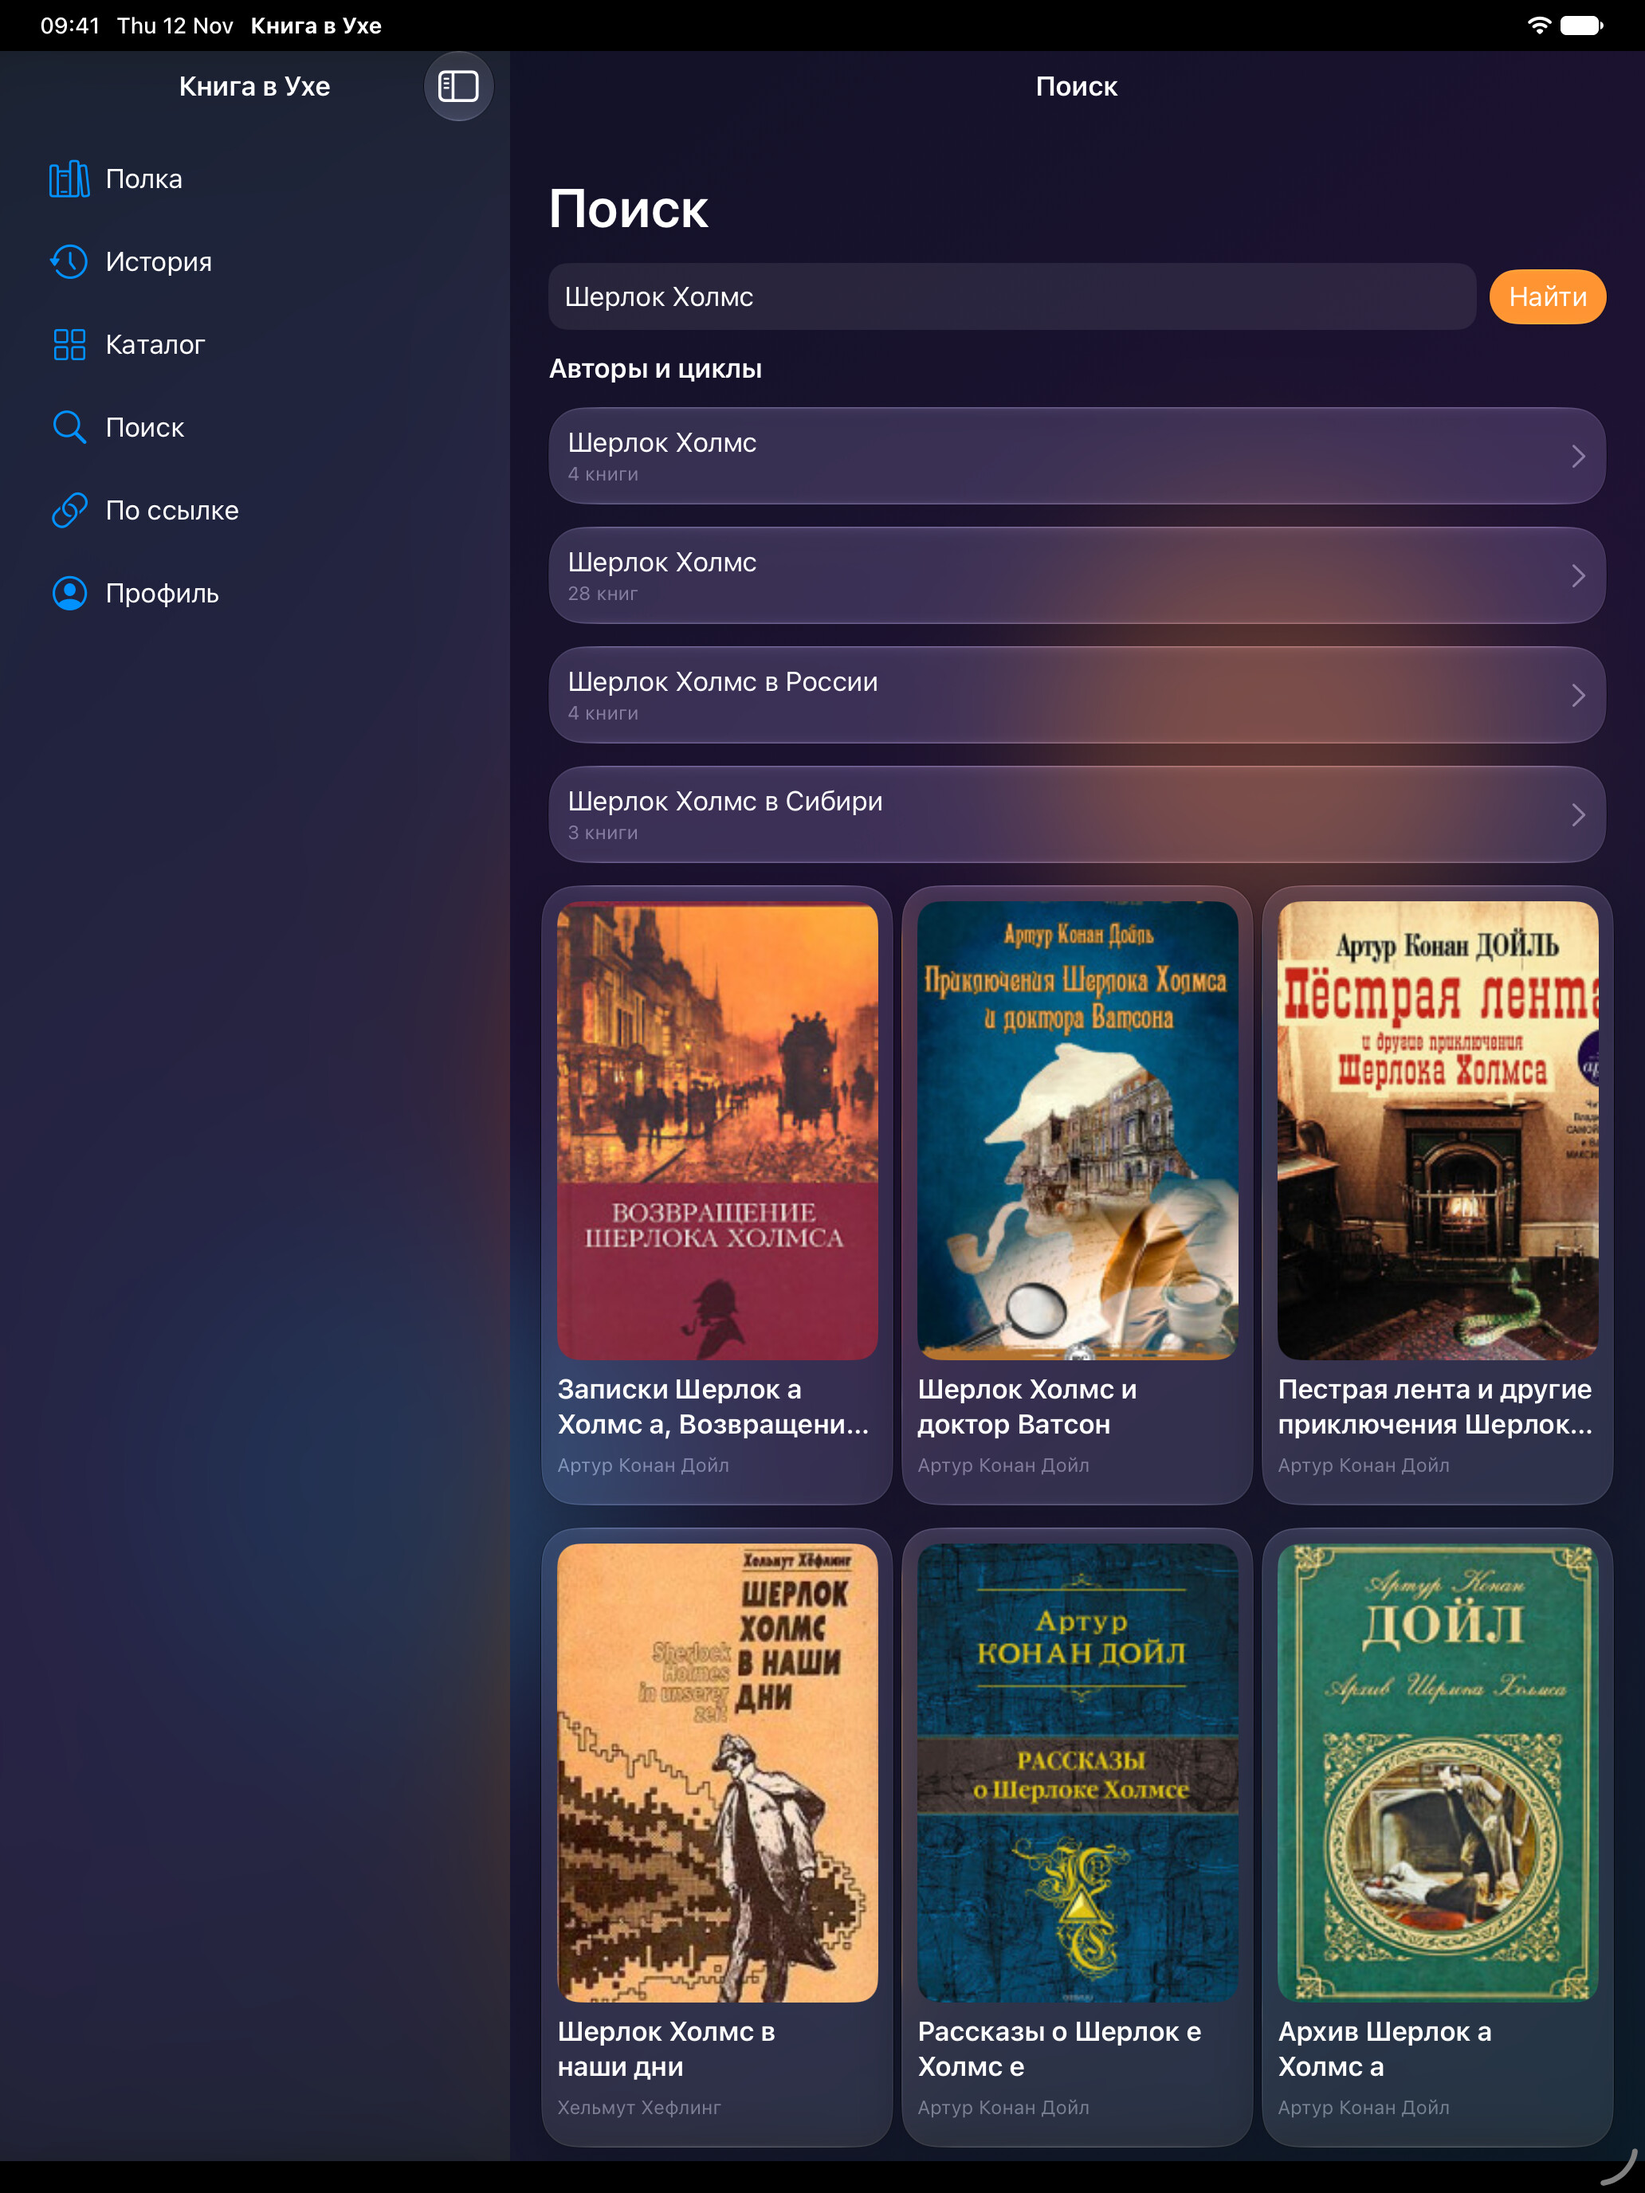
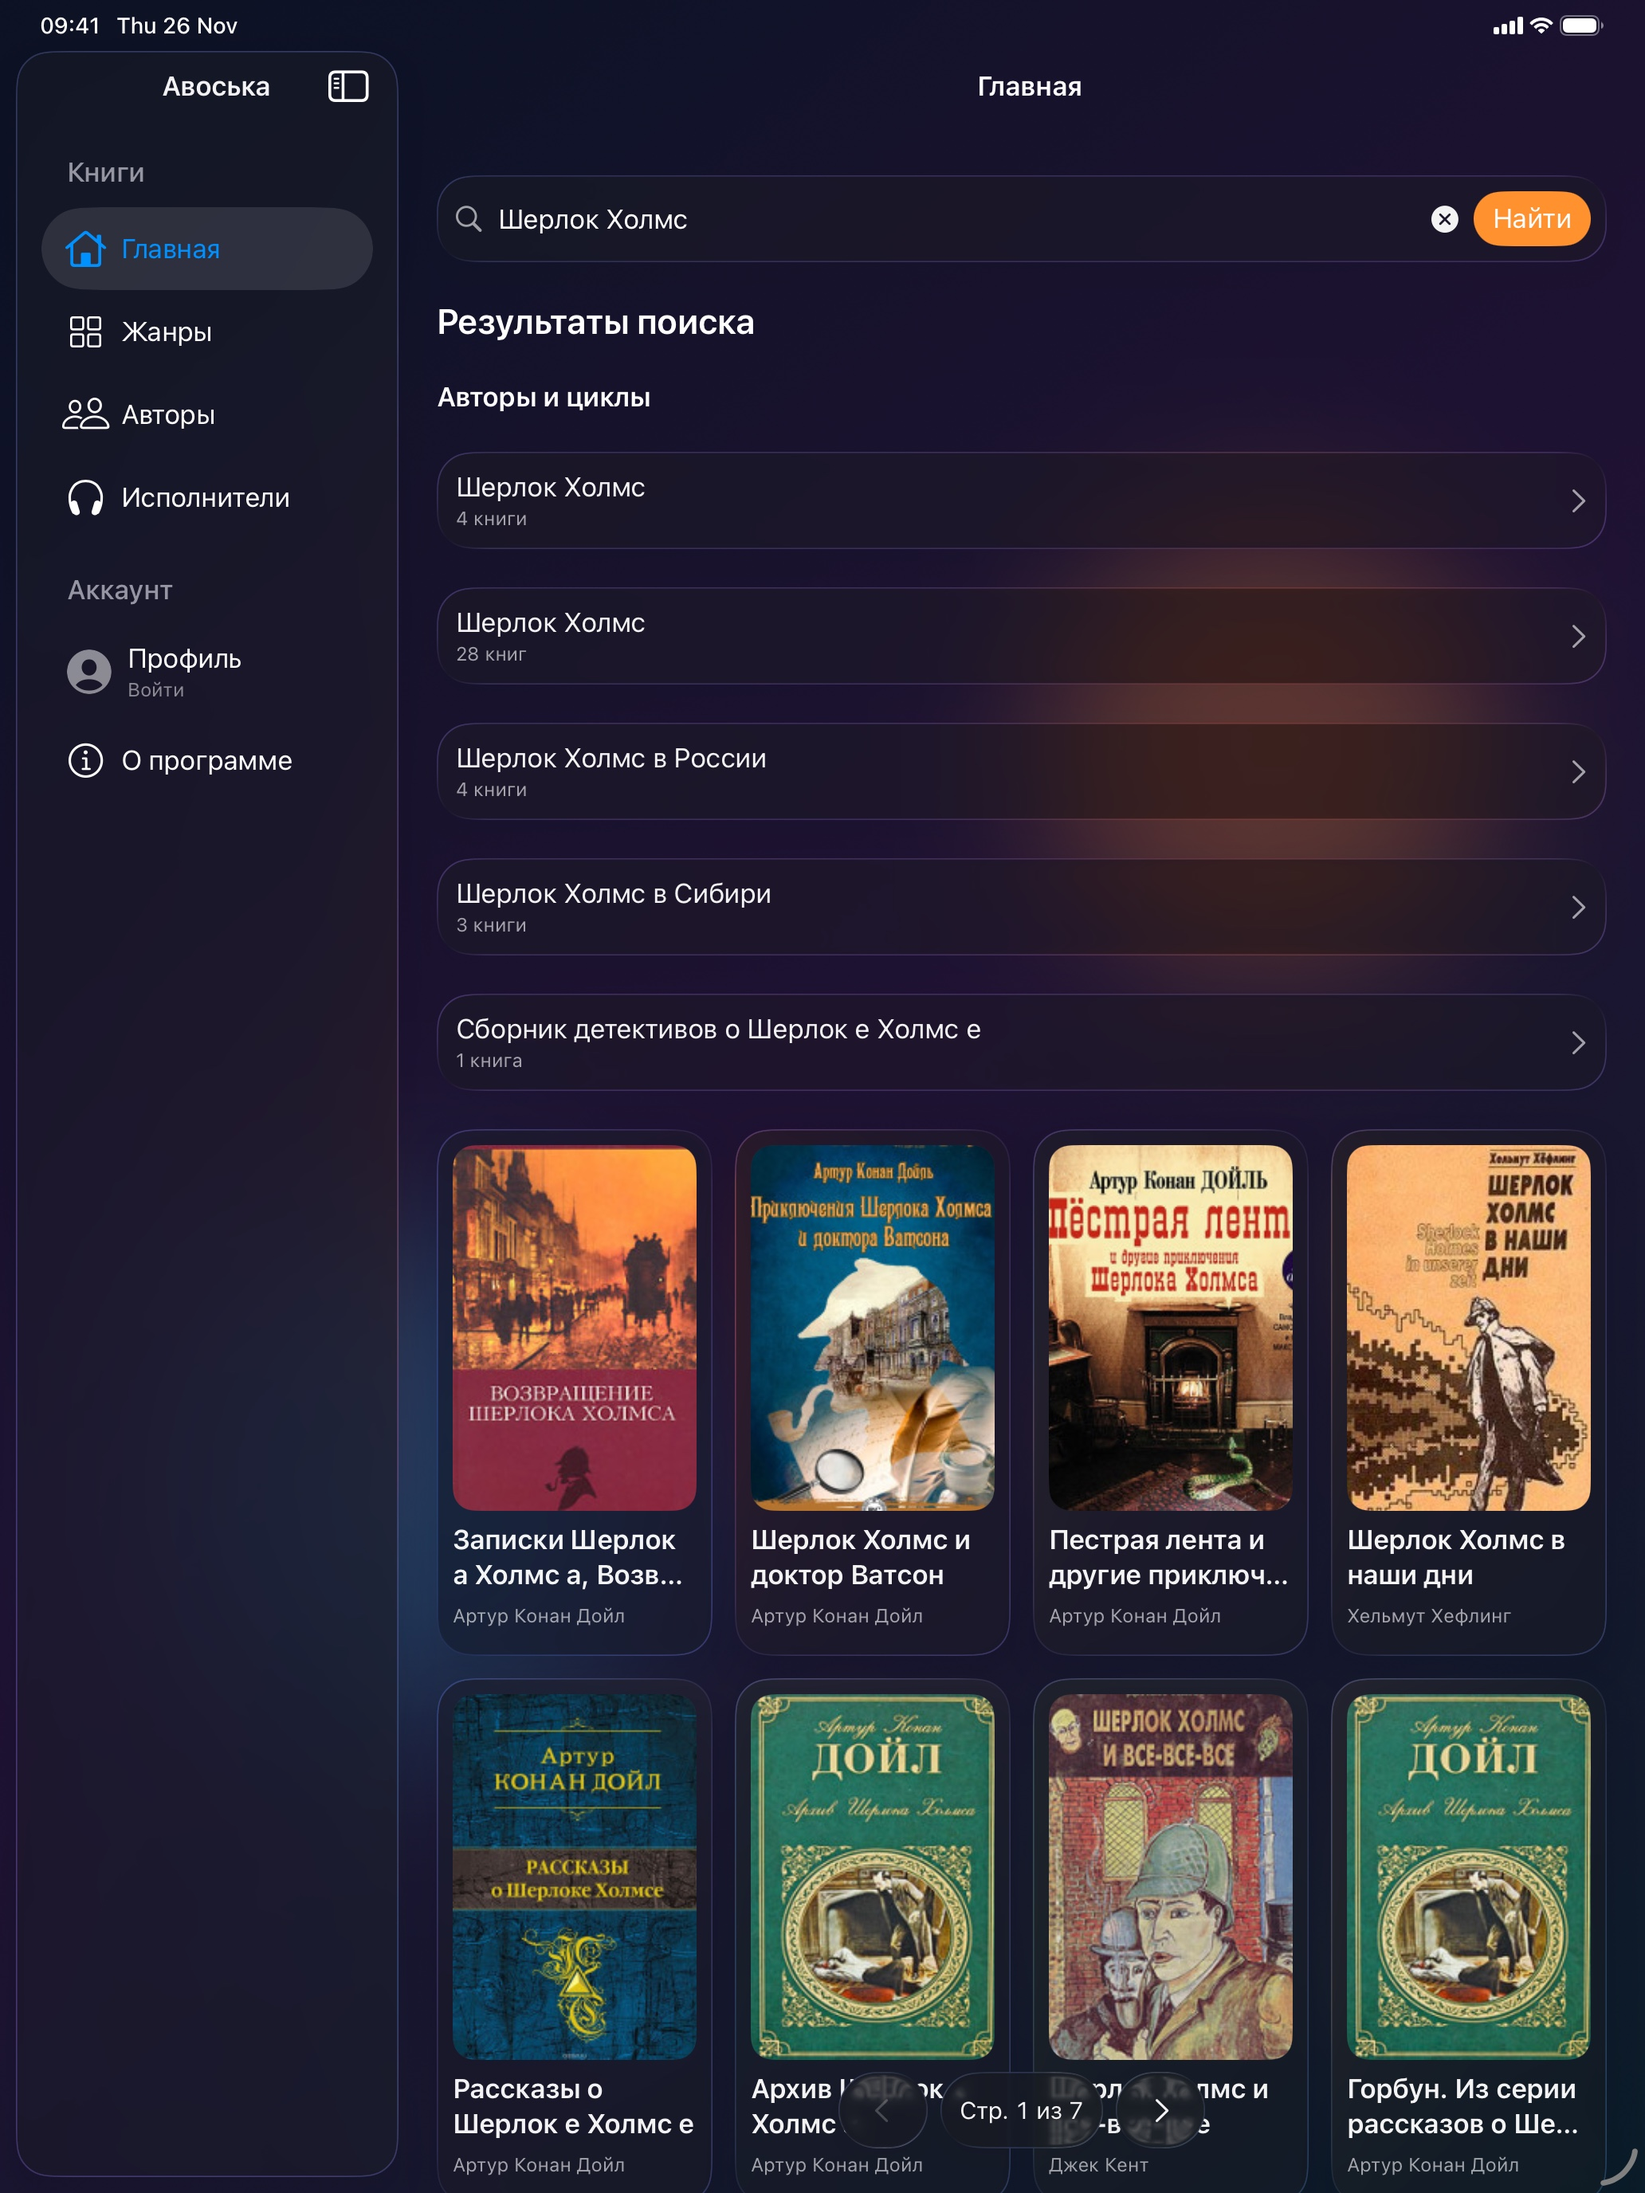
Переименовал приложение в "Авоська"

diff --git a/README.md b/README.md
@@ -1,41 +1,37 @@
-# Книга в Ухе
+# Авоська
 
-Слушайте аудиокниги с knigavuhe.org на Mac, iPhone и iPad. На Mac книги также можно скачивать.
+«Авоська» — бесплатное приложение для прослушивания русскоязычных аудиокниг с knigavuhe.org на Mac, iPhone и iPad. На Mac книги также можно скачивать для прослушивания без интернета.
 
-В каталоге книги разложены по жанрам. Можно искать по названию, автору и циклам или вставить ссылку на книгу. Слушать можно сразу, не дожидаясь полной загрузки: программа запоминает место и скорость. На Mac, пока одна книга качается, следующую можно поставить в очередь. После входа на сайте появляются полка и история прослушиваний.
+На главной собраны новинки, популярные и обновляемые книги. Можно искать по названию, автору или циклу, просматривать жанры и открывать книги по ссылке. Плеер запоминает позицию и скорость воспроизведения. После входа доступны книжная полка и история прослушиваний.
 
-Страница программы: [cyprus-team.com/knigavuhe](https://cyprus-team.com/knigavuhe)
+**В ближайшее время планируем отправить версию для iPhone и iPad на проверку Apple. Релиз в App Store ожидается после одобрения.**
 
-Сайт студии: [cyprus-team.com](https://cyprus-team.com/)
+[Страница приложения](https://cyprus-team.com/avoska) · [Сайт студии](https://cyprus-team.com/) · [История изменений](CHANGELOG.md)
 
-Версия для macOS: [1.1](https://github.com/cyprus-team/knigavuhe/releases/tag/v1.1) · [Скачать Knigavuhe.dmg](https://github.com/cyprus-team/knigavuhe/releases/download/v1.1/Knigavuhe.dmg)
+## macOS
 
-DMG подписан сертификатом Developer ID и прошёл нотаризацию Apple. Нужна macOS 26, сборка одна для Apple silicon и Intel.
+[Скачать опубликованную версию 1.1](https://github.com/cyprus-team/avoska/releases/download/v1.1/Knigavuhe.dmg). Требуется macOS 26 или новее. Сборка подходит для Apple silicon и Intel, подписана сертификатом Developer ID и прошла нотаризацию Apple.
 
-## iPhone и iPad — версия 1.1
+![Главная на Mac](images/home.webp)
 
-Нужна iOS или iPadOS 26 и новее. На iPhone и iPad доступно потоковое и фоновое воспроизведение. Мобильная версия готовится к публикации в App Store.
+![Страница книги на Mac](images/book.webp)
+
+![Поиск на Mac](images/search.webp)
+
+![Жанры на Mac](images/genres.webp)
+
+## iPhone и iPad
+
+Требуется iOS или iPadOS 26 и новее. Поддерживается потоковое и фоновое воспроизведение.
 
 ### iPhone
 
-<img src="images/mobile/iphone.jpg" width="180" alt="Каталог жанров на iPhone">
+<img src="images/mobile/iphone.jpg" width="180" alt="Главная на iPhone">
 <img src="images/mobile/iphone-search.jpg" width="180" alt="Поиск книг на iPhone">
 <img src="images/mobile/iphone-book.jpg" width="180" alt="Страница книги на iPhone">
 
 ### iPad
 
-<img src="images/mobile/ipad.jpg" width="245" alt="Каталог жанров на iPad">
+<img src="images/mobile/ipad.jpg" width="245" alt="Главная на iPad">
 <img src="images/mobile/ipad-search.jpg" width="245" alt="Поиск книг на iPad">
 <img src="images/mobile/ipad-book.jpg" width="245" alt="Страница книги на iPad">
-
-[История изменений](CHANGELOG.md)
-
-## Снимки macOS
-
-![Жанры](images/01_catalog.png)
-
-![Страница книги](images/02_book.png)
-
-![Поиск](images/03_search.png)
-
-![Открытие по ссылке](images/04_link.png)
